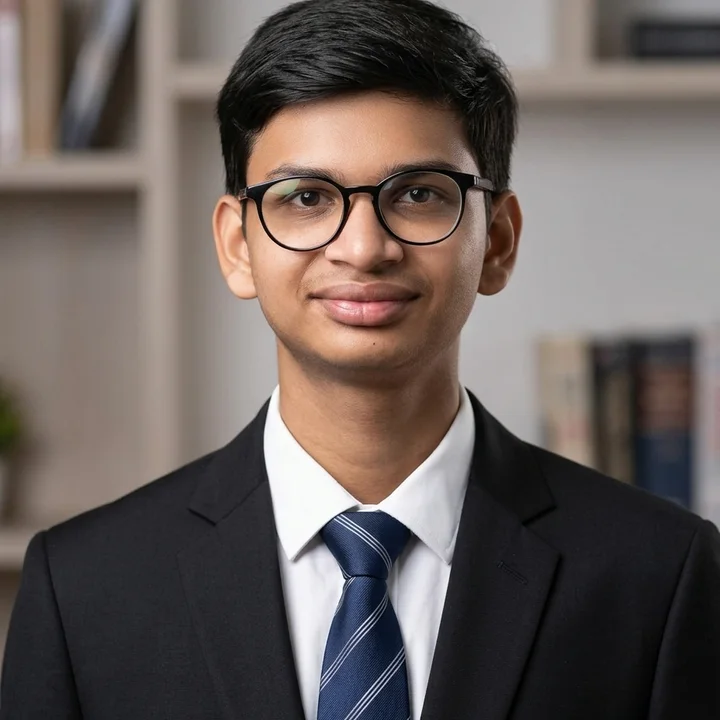
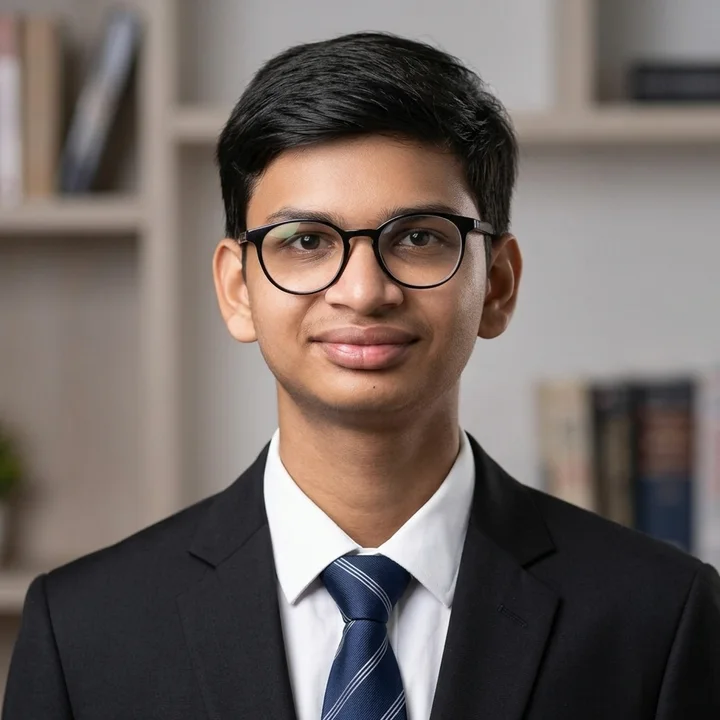
f2678ed2-43b8-466d-b181-1de20bc620f9

diff --git a/src/app/globals.css b/src/app/globals.css
@@ -118,6 +118,13 @@
     overflow-x: hidden;
     text-rendering: optimizeLegibility;
     -webkit-font-smoothing: antialiased;
+    /* Body owns one stacking context in BOTH universes (dev already
+       isolated it). The prism field is a negative-z child of body, so
+       it paints above the page backdrop but below the in-flow content
+       — and, critically, body's own box no longer shadows it during
+       hit-testing: pointer events fall through the content straight
+       onto the field. */
+    isolation: isolate;
   }
   /* Rendering-perf hint: sections and the rover live in their own layers so
      paints are isolated (no full-page repaints from animated transforms). */
@@ -3071,3 +3078,78 @@ html.dev .sec {
 }
 
 /* force-recompile marker v5 */
+
+/* ============================================================
+   PRISM FIELD — the Originkit Prism Grid as the page background
+   (both universes). One fixed layer behind all content
+   (PrismBackground renders the component exactly as provided;
+   the palette + brightness are per-universe props / rules).
+   ============================================================ */
+
+/* z-index -1 paints the field above the canvas / body background
+   but below every in-flow block — a true background layer. In dev,
+   body isolates its own stacking context, so the field lands above
+   the body's aurora gradients and below the terminal panels. */
+.prism-field {
+  position: fixed;
+  inset: 0;
+  z-index: -1;
+  overflow: hidden;
+}
+
+/* brightness: both universes tune the field so it never reads as too
+   bright or too dark. Student: the warm cells sit at 85% — full-strength
+   sun/coral cells behind the heavy display type vibrated slightly, the
+   small dim keeps them a living accent while the ink lines stay
+   visible. Dev: the whole field is dimmed further (55%) so lit cells
+   read as soft phosphor blips on the near-black terminal instead of
+   white flashes. */
+.prism-field {
+  opacity: 0.85;
+}
+html.dev .prism-field {
+  opacity: 0.55;
+}
+
+/* ------------------------------------------------------------
+   Pointer-events map — the field is interactive on every device.
+   The document flow lets pointer events fall through to the fixed
+   prism layer except on real interactive surfaces, so the grid
+   lights under the pointer wherever it passes over text, lanes
+   and padding. Text selection is already disabled site-wide
+   (content protection), so the fall-through costs nothing.
+   ------------------------------------------------------------ */
+main,
+.site-foot {
+  pointer-events: none;
+}
+
+/* ...and every interactive / hover-reactive element opts back in:
+   controls and links, the hover-lift cards, the pointer-reactive
+   chips, the tilting work surfaces, and the marquee bands (their
+   hover-pause is an intentional feature). Sections with their own
+   opaque reactive canvases (dev hero / dev tech) keep their
+   established internal maps, which nest fine under this one. */
+main :is(a, button, input, textarea, select, summary),
+main :is(
+    .marquee,
+    .badges span,
+    .tags li,
+    .sec-ic,
+    .ac-fig,
+    .sticker,
+    .work-block,
+    .quest,
+    .law,
+    .ccard,
+    .tech-chip,
+    .tech-ai-row li,
+    .dv-repo,
+    .dv-tech-ai-row li,
+    .dv-conn-btn,
+    .dv-conn-handle
+  ) {
+  pointer-events: auto;
+}
+
+/* prism field: cache-bust 1788163144 */

diff --git a/src/components/site/prism-background.tsx b/src/components/site/prism-background.tsx
@@ -1,0 +1,73 @@
+"use client";
+
+import PrismGrid from "@/components/originkit/prism-grid";
+import { usePortfolioStore } from "@/lib/store";
+
+/**
+ * PrismBackground — the Originkit "Prism Grid" mounted as the living
+ * background of the page, in BOTH universes.
+ *
+ * The Originkit component is integrated exactly as provided — one
+ * instance, unmodified, rendered straight from
+ * `@/components/originkit/prism-grid` with its documented props. This
+ * wrapper only positions it (a fixed, full-viewport layer behind all
+ * content — see `.prism-field` in globals.css) and hands it the
+ * per-universe palette:
+ *
+ *   · student — the warm notebook prism (coral / sun / leaf / paper /
+ *     sand) with faint ink grid lines, the same palette the arsenal
+ *     section pioneered.
+ *   · dev     — the phosphor terminal prism (green / mint / pale
+ *     phosphor-white with coral & sun accents) with faint green lines;
+ *     the whole field is dimmed via `.prism-field` opacity so lit
+ *     cells read as terminal blips instead of white flashes.
+ *
+ * Interactivity: the grid lights cells under the pointer wherever the
+ * document lets pointer events fall through to this layer (the
+ * pointer-events map in globals.css keeps every real interactive
+ * element — links, buttons, cards, chips, docks — fully clickable).
+ * The instance is deliberately NOT keyed by mode: folding swaps the
+ * palette props in place under the fold cover, so the grid geometry
+ * and measurements survive the universe turn without a re-measure.
+ */
+
+/** Student universe — warm prism on notebook paper. */
+const STUDENT_PRISM = [
+  "#E8603C", // coral
+  "#F2B33D", // sun
+  "#3E7C4F", // leaf
+  "#FBF6EC", // paper white
+  "#E9D9BC", // sand
+];
+
+/** Dev universe — phosphor prism on the terminal. */
+const DEV_PRISM = [
+  "#7EE787", // phosphor green
+  "#A8F0C6", // mint
+  "#EAF6EE", // pale phosphor white
+  "#F2B33D", // sun accent
+  "#E8603C", // coral accent
+];
+
+const STUDENT_BORDER = "rgba(32, 26, 20, 0.09)";
+const DEV_BORDER = "rgba(126, 231, 135, 0.16)";
+
+export function PrismBackground() {
+  const mode = usePortfolioStore((s) => s.mode);
+  const isDev = mode === "dev";
+
+  return (
+    <div className="prism-field" aria-hidden="true">
+      <PrismGrid
+        colors={isDev ? DEV_PRISM : STUDENT_PRISM}
+        boxSize={46}
+        maxCols={22}
+        maxRows={22}
+        tilt={{ x: 24, y: 0 }}
+        borderWidth={1}
+        borderColor={isDev ? DEV_BORDER : STUDENT_BORDER}
+        fadeDuration={1}
+      />
+    </div>
+  );
+}

diff --git a/src/components/site/tech.tsx b/src/components/site/tech.tsx
@@ -1,8 +1,6 @@
 import { memo } from "react";
 import { TECHNOLOGIES, TECH_TOTAL, TOOLS } from "@/lib/tech";
-import PrismGrid from "@/components/originkit/prism-grid";
 import { Icon } from "./icons";
-import { LazyMount } from "./lazy-mount";
 import { SectionBadge } from "./section-icons";
 
 /**
@@ -10,31 +8,13 @@ import { SectionBadge } from "./section-icons";
  * SKILLS SUMMARY), repurposing the old "AI Workbench" slot. Four compact
  * category rows with staggered chip pop-ins; the 13 daily-driver AI tools
  * ride along as a compact footnote strip so nothing from the old workbench
- * is lost. Behind it: an Originkit Prism Grid — a tilted field of warm
- * prismatic cells that light under the pointer (the arsenal, refracted).
- * The content column lets pointer events fall through to the field except
- * on the interactive chips.
+ * is lost. The Originkit Prism Grid that used to live behind this section
+ * now renders as the page-wide living background (PrismBackground) —
+ * same component, same palette, positioned behind both universes.
  */
 export const Tech = memo(function Tech() {
   return (
     <section className="sec tech-sec" id="stack">
-      {/* Originkit — Prism Grid (pointer-reactive tilted cell field),
-          lazy-mounted, warm palette on the notebook paper */}
-      <div className="tech-bg" aria-hidden="true">
-        <LazyMount delay={200}>
-          <PrismGrid
-            colors={["#E8603C", "#F2B33D", "#3E7C4F", "#FBF6EC", "#E9D9BC"]}
-            boxSize={46}
-            maxCols={22}
-            maxRows={22}
-            tilt={{ x: 24, y: 0 }}
-            borderWidth={1}
-            borderColor="rgba(32, 26, 20, 0.09)"
-            fadeDuration={1}
-          />
-        </LazyMount>
-      </div>
-
       <div className="wrap">
         <div className="reveal">
           <SectionBadge id="stack" />

diff --git a/src/app/student.css b/src/app/student.css
@@ -501,55 +501,10 @@
    4 · TECH — the arsenal (id="stack")
    ============================================================ */
 
-/* the section becomes a stage for the Originkit Prism Grid field */
-.tech-sec {
-  position: relative;
-  background: var(--cream);
-}
-
-/* the tilted prism field — full bleed, clipped, under the content */
-.tech-bg {
-  position: absolute;
-  inset: 0;
-  z-index: 0;
-  overflow: hidden;
-}
-
-/* scrim so the copy stays AA over lit cells; the prism glow breathes
-   through at the edges */
-.tech-bg::after {
-  content: "";
-  position: absolute;
-  inset: 0;
-  pointer-events: none;
-  background:
-    radial-gradient(
-      120% 90% at 50% 40%,
-      rgba(245, 239, 227, 0.72),
-      rgba(245, 239, 227, 0.3) 68%
-    ),
-    linear-gradient(
-      to bottom,
-      rgba(245, 239, 227, 0.6),
-      rgba(245, 239, 227, 0.28) 30%,
-      rgba(245, 239, 227, 0.28) 72%,
-      rgba(245, 239, 227, 0.62)
-    );
-}
-
-/* content rides above the field; pointer events fall through to the
-   prism grid everywhere except the interactive chips */
-.tech-sec .wrap {
-  position: relative;
-  z-index: 1;
-  pointer-events: none;
-}
-
-.tech-sec .tech-chip,
-.tech-sec .tech-ai-row li {
-  pointer-events: auto;
-}
-
+/* The Originkit Prism Grid that staged this section now renders as
+   the page-wide PrismBackground (globals.css); the section is back
+   to transparent so the global field flows through, and the global
+   pointer-events map handles the chip fall-through. */
 .tech-sub {
   margin-top: 16px;
   max-width: 56ch;

diff --git a/src/app/page.tsx b/src/app/page.tsx
@@ -4,6 +4,7 @@ import { useEffect } from "react";
 import dynamic from "next/dynamic";
 import { ClientEffects } from "@/components/site/client-effects";
 import { Header } from "@/components/site/header";
+import { PrismBackground } from "@/components/site/prism-background";
 import { Marquee } from "@/components/site/marquee";
 import { Beliefs } from "@/components/site/beliefs";
 import { Tech } from "@/components/site/tech";
@@ -117,6 +118,9 @@ export default function Home() {
 
   return (
     <>
+      {/* the Originkit Prism Grid — one fixed field behind everything,
+          alive in both universes (palette swaps in place on fold) */}
+      <PrismBackground />
       {/* keyed by mode: a mode switch remounts the tree, and the fresh
           ClientEffects instance re-observes the new .reveal/.lm/.tilt nodes */}
       <ClientEffects key={`fx-${mode}`} />

diff --git a/worklog.md b/worklog.md
@@ -93,3 +93,20 @@ Work Log:
 
 Stage Summary:
 - Scroll-to-top arrow fully retired (header logo remains the top affordance). Both docks now keep themselves inside the actually-visible viewport on collapsing-URL-bar mobile browsers (visual-viewport lift) with raised touch offsets and instant-feel taps. The about figure in BOTH universes is the new flippable PortraitCard — the chosen Gemini portrait above the in-house resident infinity, springy side-hinge paper flip in student mode vs top-hinge phosphor CRT swap in dev mode. Dev lore boot lines deleted; the dev stack is presented exactly once (stack.json terminal). New asset: public/art/portrait.webp (36.6KB). New hook: use-visual-lift.ts (shared by both docks). All changes verified across 1280/768/390/320 in both modes with VLM screenshot confirmation and zero console errors.
+
+---
+Task ID: 6
+Agent: main-agent (Z.ai Code)
+Task: Two-part request: (1) resize the uploaded portrait so it properly covers the upper portion of the picture; (2) integrate the Originkit "Prism Grid" component exactly as provided — unmodified — as the page background in BOTH modes, interactive across all devices, with brightness tuned so it is neither too bright nor too dark.
+
+Work Log:
+- **Portrait diagnosis**: template-matched the current 720×720 portrait.webp against the 928×1140 source — the crop window starts at y=68 while the hair crown sits at y≈56 (confirmed via labeled-grid VLM reads): the top of the head was being sliced off at the card's top edge. Fixed by re-cropping with sharp: extract 928×928 at y=12 (crown → 44px headroom ≈ 4.7%, collar + shoulders retained), lanczos resize to 720×720, webp q84 (34KB). VLM-verified: full head visible, 5-8% headroom, head/face properly covers and dominates the upper portion, "excellent head-and-shoulders crop".
+- **Prism Grid integration**: the Originkit component (src/components/originkit/prism-grid.tsx) was NOT touched — one instance now renders as the page background via a thin new wrapper `src/components/site/prism-background.tsx` (fixed full-viewport `.prism-field` layer, aria-hidden, mounted once in page.tsx outside the mode-keyed branches so it survives the Infinity Fold — palette/border props swap in place under the fold cover, grid geometry never re-measures). Per-mode props: student = the proven warm arsenal palette (#E8603C/#F2B33D/#3E7C4F/#FBF6EC/#E9D9BC, faint ink borders rgba(32,26,20,.09)); dev = phosphor family (#7EE787/#A8F0C6/#EAF6EE + sun/coral accents, faint green borders rgba(126,231,135,.16)). Geometry identical in both modes (boxSize 46, 22×22 caps, tilt x24, 1s fade).
+- **Positioning**: the tech section's local PrismGrid field was retired (tech.tsx + .tech-bg/.tech-sec stage CSS removed; section back to transparent) — the component moved from a section background to THE page background; no duplicate instances.
+- **Stacking fix (critical)**: `.prism-field` is a z-index:-1 fixed body child. In dev it worked (html.dev body already has isolation:isolate), but in student the negative-z layer climbed to the root stacking context where BODY's own box shadowed it in hit-testing — cells lit in dev but never in student. Fix: `body { isolation: isolate }` in the base rule — both universes now share one stacking model (paint above the page backdrop, below all in-flow content, body's box can't shadow it).
+- **Interactivity across devices**: a global pointer-events map (globals.css) lets the document flow fall through to the field — `main` + `.site-foot` are pointer-events:none, and every interactive/hover surface opts back in (a/button/input/…, .marquee, .badges span, .tags li, .sec-ic, .ac-fig, .sticker, .work-block, .quest, .law, .ccard, .tech-chip, .tech-ai-row li, .dv-repo, .dv-tech-ai-row li, .dv-conn-btn, .dv-conn-handle). Text selection is already disabled site-wide by content-protection, so nothing is lost. The grid lights under mouse/pen anywhere over text, lanes, and the footer; on touch it lights during drags before the browser claims the scroll (pointercancel-safe by component design); scrolling is unaffected (touch-action untouched, keyboard/wheel/scroll chain verified).
+- **Brightness tuning**: student field dimmed to opacity .85 (full-strength sun/coral cells behind the display type read as slight vibration in the first VLM audit — after the dim: "Balanced… Success/Optimal… typographically respectful"); dev field at .55 ("soft phosphor glow… appropriate… polished and intentional"). Opaque designed surfaces (cards, terminal windows, the leaf-green quests band, dev hero dotmatrix + dev tech liquid-grid canvases) occlude the field locally by design — consistent layering, not gaps.
+- **Verification** (agent-browser + VLM): cells light in BOTH modes on desktop (coral/sun/sand in student, phosphor/mint in dev) incl. over text lanes, right margins, and the footer zone; grid renders at 1280/768-class desktops (22×14 plane), 390 (9×19) and 320 (7×16) with zero horizontal overflow; click-through regression suite passed — portrait flip (click + dev), resume modal open/esc-close, contact form open/close via ccard, dock tile navigation (#work scrollY 1152), fold round-trips both directions with the field swapping palettes in place (student opacity 1→.85 / dev .55, same mounted element), marquee hover-pause preserved, keyboard PageDown/Arrow scrolling fine (agent-browser's `mouse wheel` dispatches untrusted events — control test over the header proved the 0-scroll was a tool artifact, not CSS); zero page/console errors; lint clean; mobile 390 VLM audits balanced in both themes; mid/lower-page VLM audits (tech/quests/dev-laws/dev-connect) confirm consistent visibility and no overlaps. One Turbopack stale-CSS episode (served the pre-0.85 globals) busted via the cache-bust marker + fresh load.
+
+Stage Summary:
+- portrait.webp re-cropped (source y=12 window): the subject now properly covers the upper portion of the card with the full head and tasteful headroom in both universes. The Originkit Prism Grid — untouched, exactly as provided — is now the single living background of the site in both modes: one fixed z-:-1 layer behind all content (body isolation unified the stacking model), interactive on every device via the global pointer-events fall-through map (all real interactive surfaces re-enabled and regression-verified), and brightness-balanced per universe (student .85, dev .55) with VLM-confirmed "balanced/optimal" audits in both themes at desktop and mobile. Tech section's local field retired in favor of the global one. New files: src/components/site/prism-background.tsx; changed: page.tsx, tech.tsx, globals.css, student.css, public/art/portrait.webp.
